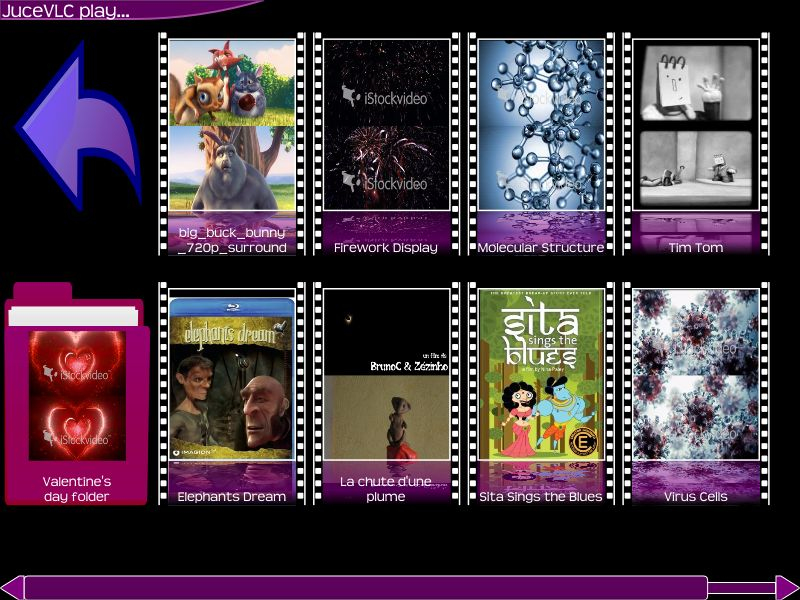
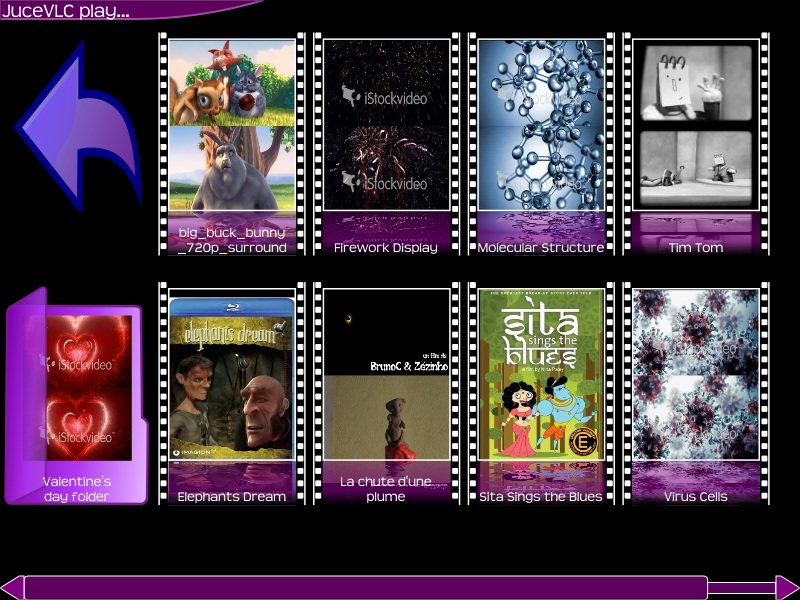
Release doc update

diff --git a/web/site.html b/web/site.html
@@ -57,6 +57,14 @@
 			<a id="news"></a><a href="#news" class="link-style1">News</a><br>
 			<ul class="list-style1">
 				<li class="first">
+					<h3>0.84 (2013/12/13):</h3>
+					<ul>
+						<li class="first">Fix startup crash when network connection is unavailable</li>
+						<li class="first">Better frontpage drive/folder icons</li>
+						<li class="first">libVLC 2.1.2</li>
+					</ul>
+				</li>
+				<li class="first">
 					<h3>0.83 (2013/09/29):</h3>
 					<ul>
 						<li class="first">Audio channel selection</li>
